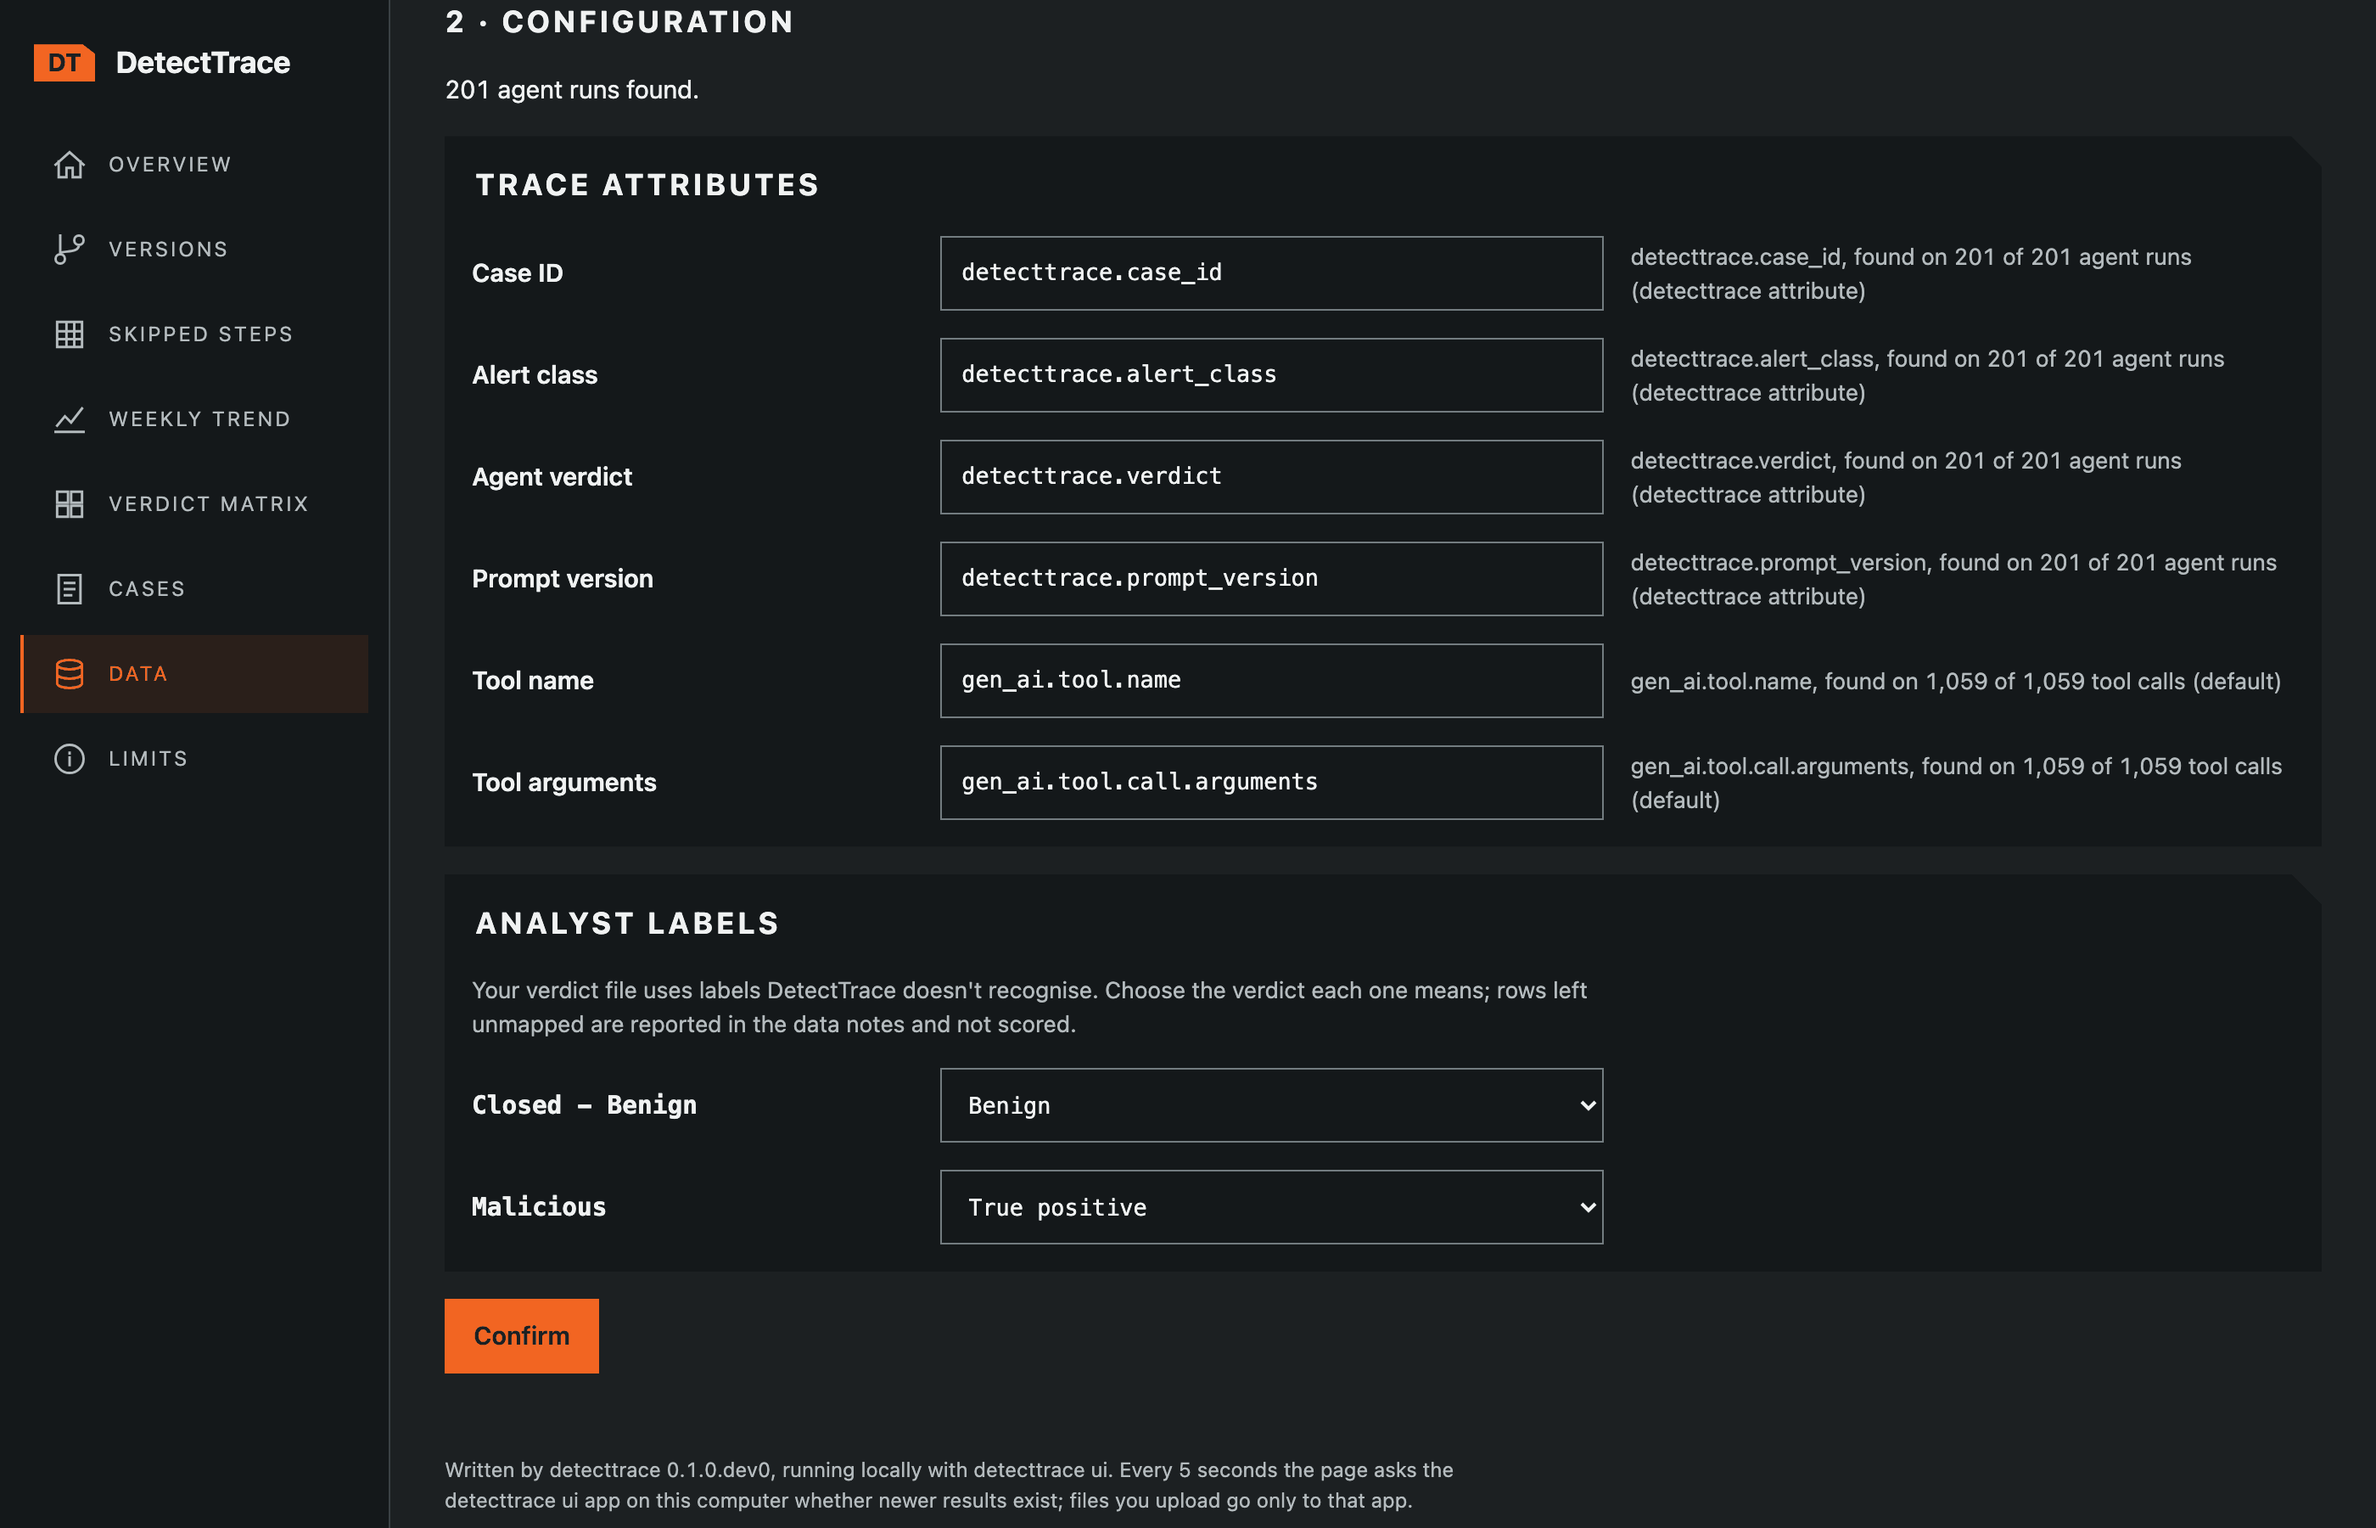
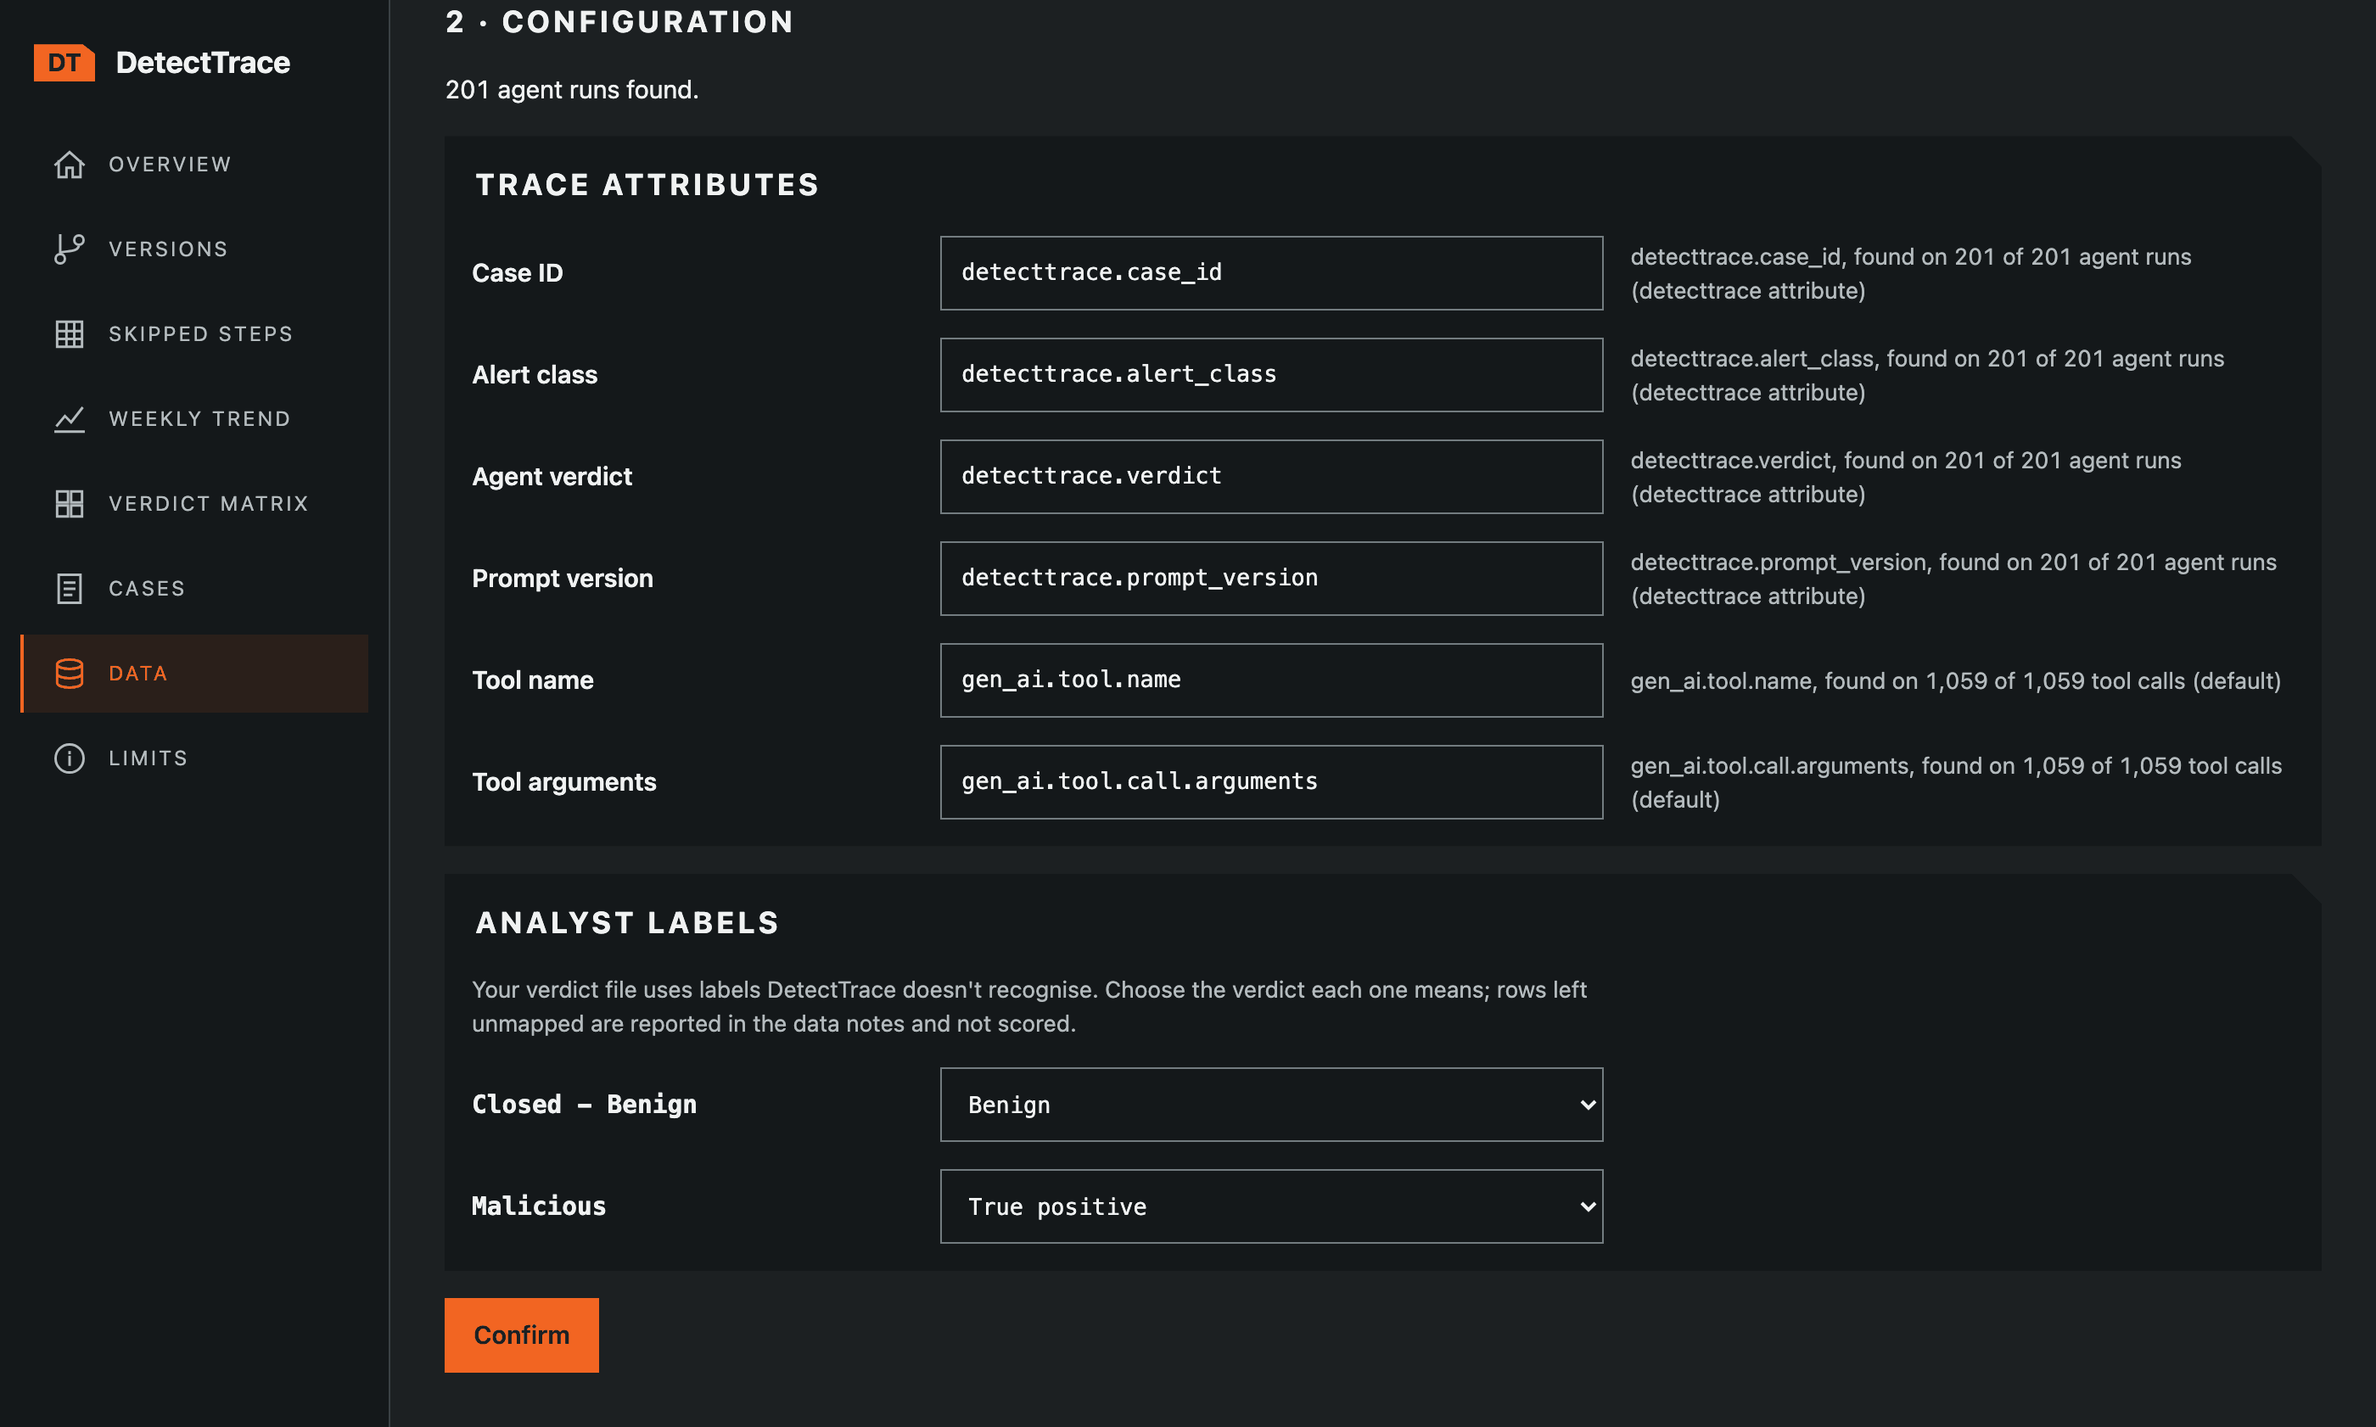
docs: tighten the README screenshots

diff --git a/README.md b/README.md
@@ -31,13 +31,22 @@ A command-line tool that turns traces and verdicts into a view that goes beyond 
 
 It shows the numbers. It doesn't explain why a number changed, check whether the agent's conclusions are supported by its tool results, or fail builds.
 
+<!-- How the screenshots in docs/images/ were made: `detecttrace ui` on the demo data (all three
+trace files, verdicts.csv and both checklists uploaded, with "Closed - Benign" mapped to benign and
+"Malicious" to true_positive), captured with Playwright in Chromium at a 1400×900 viewport and 2×
+device scale, dark theme. Each page or state was captured in turn: the Upload and Configuration
+steps before Confirm, then the Overview, Weekly trend (impossible_travel) and Cases (dangerous false
+closes, one row open) after the results arrived. Each frame ends above the page footer, the Overview
+above its link tiles and the Weekly trend above its first "Show table" button. Each PNG was then
+quantized with Pillow to a 128-colour palette (no dithering) and saved with optimize=True. -->
+
 ### A look at the dashboard
 
-![The Overview page on the demo data: 201 cases in 2 alert classes over 6 weeks, verdict coverage, dangerous false closes per class, and evidence completeness, verdict agreement and chance-corrected agreement for each prompt version of impossible_travel, with 95% intervals.](docs/images/overview.png)
+![The Overview page on the demo data: cases, period, coverage, dangerous false closes, and results by prompt version with 95% intervals.](docs/images/overview.png)
 
 The Overview, from `detecttrace ui` on the demo data. More of the app:
 
-- [Versions](docs/images/versions.png): each prompt version's results for one alert class, with intervals and n.
+- [Weekly trend](docs/images/trends.png): evidence completeness per week for one alert class, v1 against v2, with the week each version started.
 - [Cases](docs/images/cases.png): a dangerous false close opened to show its tool calls and the checklist steps it missed.
 - [Upload](docs/images/data-upload.png) and [configuration](docs/images/data-configuration.png): the Data page in `detecttrace ui`.
 
@@ -68,19 +77,19 @@ The demo runs on about 200 synthetic cases in two identity alert classes over si
 
 It prints a short summary and writes `detecttrace-demo.html`, a self-contained dashboard that opens in any browser without a network connection. Running the demo again replaces its own earlier page.
 
-The dashboard is one HTML file with eight pages, listed in a sidebar:
+The dashboard, as a file from `check` or in `detecttrace ui`, has eight pages, listed in a sidebar:
 
 - **Overview**: the cases, the period, the coverage and the dangerous false closes, then the results by version for one alert class.
 - **Versions**: evidence completeness, verdict agreement and chance-corrected agreement for each version, with intervals.
-
-  ![The Versions page for impossible_travel: rows for all versions, v1 and v2, each with evidence completeness, verdict agreement and chance-corrected agreement as a value, a 95% interval bar and n, plus the dangerous false closes count.](docs/images/versions.png)
-
 - **Skipped steps**: how often each checklist step was not satisfied, per version.
 - **Weekly trend**: completeness and agreement per week, one line per version. Each chart can also be read as a table, and its points can be stepped through with the arrow keys.
+
+  ![The Weekly trend page for impossible_travel: evidence completeness per week, v1 against v2, with a dashed rule where each version starts.](docs/images/trends.png)
+
 - **Verdict matrix**: agent verdicts against analyst verdicts.
 - **Cases**: every scored case. Filter by alert class, by result (all, disagreements, or dangerous false closes) and by case ID. Open a notable case's row to see its tool calls and the checklist steps it missed.
 
-  ![The Cases page filtered to impossible_travel dangerous false closes, with one case open: analyst true positive, agent benign, its five successful tool calls with their arguments, and two missed checklist steps, signin_history with wrong arguments and mfa_check not called.](docs/images/cases.png)
+  ![The Cases page with one dangerous false close open: its tool calls and the two checklist steps it missed.](docs/images/cases.png)
 
 - **Data**: the coverage lines and every input problem, with how to fix it. In `detecttrace ui`, this is also where you upload files and confirm the configuration.
 - **Limits**: what the dashboard does not tell you.
@@ -212,13 +221,13 @@ It starts an app on `http://127.0.0.1:4321/` and opens it in your browser. Until
 
 1. **Upload** your traces, your verdict CSV and your checklist YAML files. Each file shows what was stored and any problems found in it, and the totals below the cards show everything stored so far.
 
-   ![Step 1, Upload, on the Data page: three cards for traces, verdicts and checklists. After the demo files are added, each file shows what was stored, such as "791 spans added." and "201 verdicts added.", and the totals read 2,129 spans, OTLP traces, 201 verdicts, and checklists for impossible_travel and oauth_consent.](docs/images/data-upload.png)
+   ![The Upload step: trace, verdict and checklist cards, each listing what was stored, with totals below.](docs/images/data-upload.png)
 
 2. **Confirm** the configuration DetectTrace proposes from your data, as `init` does. Correct an attribute or map a verdict label first if you need to.
 
-   ![Step 2, Configuration: the proposed trace attributes, each with how many agent runs or tool calls it was found on, and the two demo labels DetectTrace couldn't map by itself, "Closed - Benign" mapped to Benign and "Malicious" mapped to True positive, above the Confirm button.](docs/images/data-configuration.png)
+   ![The Configuration step: proposed trace attributes with match counts, two unmapped verdict labels mapped by hand, and Confirm.](docs/images/data-configuration.png)
 
-3. The app computes the dashboard, and the page reloads itself once the results exist. The other pages then show the dashboard, with the same pages as the file from `check`, and the Data page adds step 3, the data notes. New uploads update it by themselves.
+3. The app computes the dashboard and the page reloads itself when the results are ready. The other pages then match the file from `check`, and the Data page gains step 3, the data notes. New uploads update everything by themselves.
 
 The app keeps the uploaded data, the configuration and the checklists in a data folder, `~/.detecttrace` by default. It listens on `127.0.0.1` only, and stops with Ctrl+C.
 
